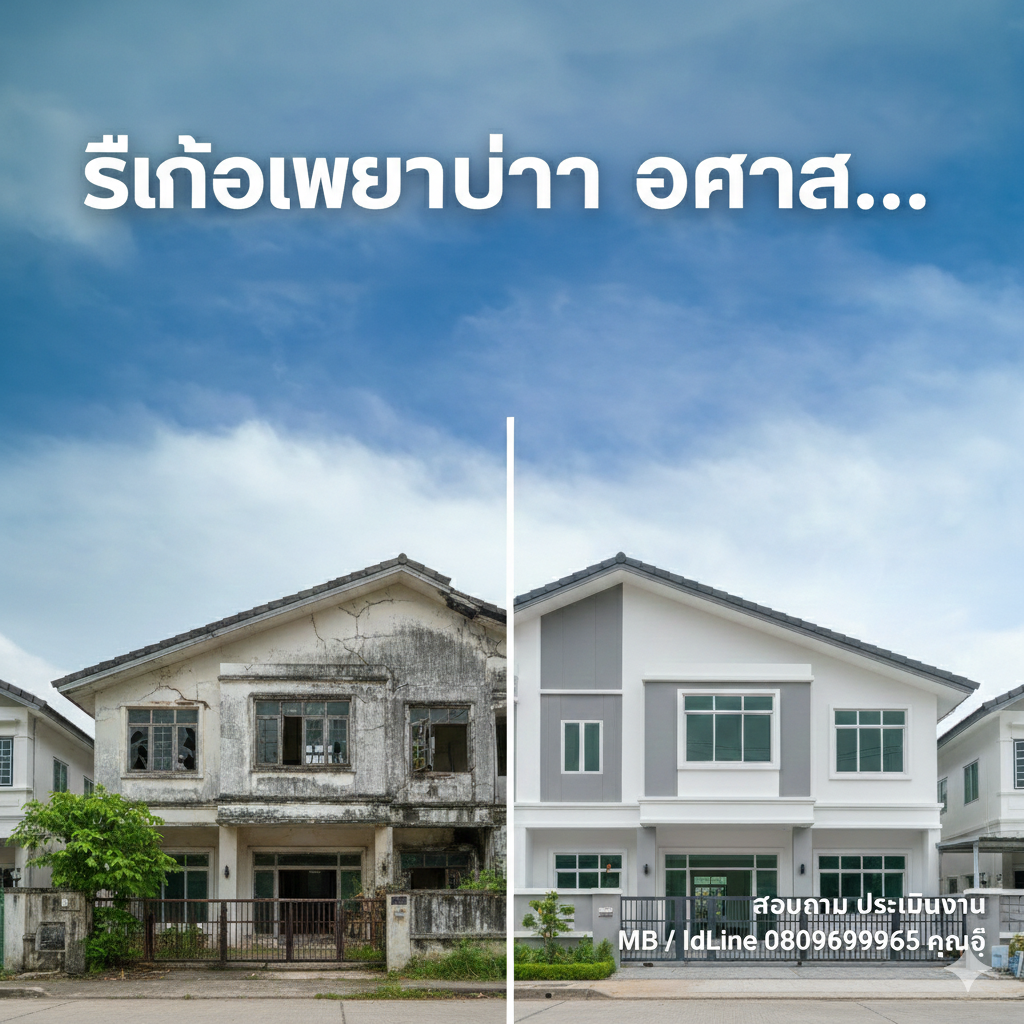
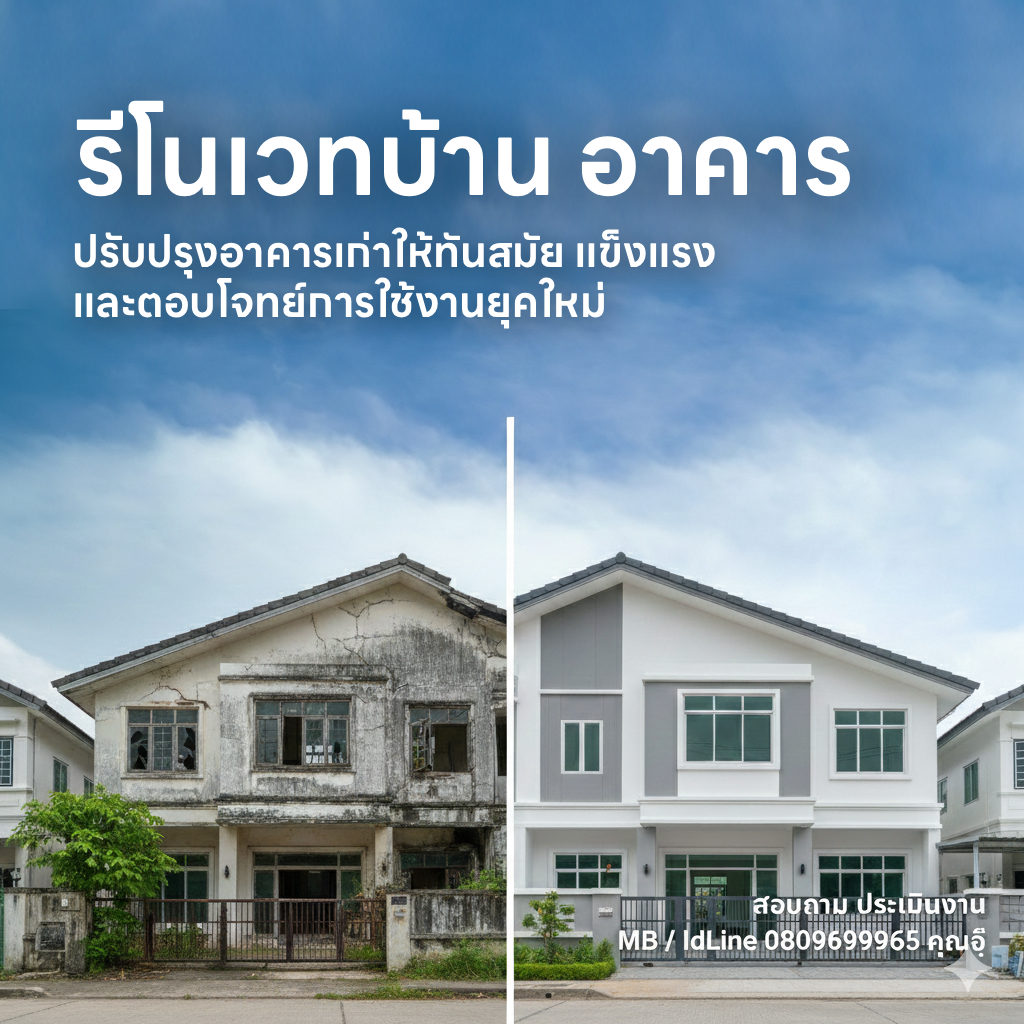
feat : update home page

Changed region(s): [[0.0, 0.0, 1.0, 0.3438]]

diff --git a/app/page.tsx b/app/page.tsx
@@ -1,21 +1,154 @@
 import ImageCarousel from "./components/ImageCarousel";
 import { HOME_IMAGES } from "./const/app";
+import { ArrowRight, ShieldCheck, Paintbrush, Home as HomeIcon } from "lucide-react";
 
-
-
+// ข้อมูลบริการสำหรับ Grid
+const services = [
+  {
+    title: "กันซึมดาดฟ้า หลังคา ผนัง",
+    description: "ติดตั้งระบบกันซึมมาตรฐานสากล ป้องกันน้ำรั่วซึมเข้าสู่โครงสร้างอาคารอย่างถาวร",
+    image: "/images/service1.jpg"
+  },
+  {
+    title: "ซ่อมแซมรอยรั่ว รอยแตกร้าว",
+    description: "วิเคราะห์และแก้ไขปัญหารอยร้าวด้วยวัสดุประสานประสิทธิภาพสูง ทนทานต่อแรงมัดตัว",
+    image: "/images/service2.jpg"
+  },
+  {
+    title: "งานติดตั้ง ซ่อมฝ้าเพดาน",
+    description: "บริการงานฝ้าครบวงจร แก้ไขปัญหาฝ้าบวมชื้นจากน้ำรั่ว พร้อมตกแต่งให้เรียบเนียน",
+    image: "/images/service3.jpg"
+  },
+  {
+    title: "งานพ่นสีหลังคา ซ่อมหลังคา",
+    description: "ฟื้นฟูหลังคาเก่าให้ใหม่ด้วยสีสะท้อนความร้อน พร้อมระบบกันซึมคุณภาพสูง",
+    image: "/images/service4.jpg"
+  },
+  {
+    title: "ซ่อมพื้นปูน กระเบื้อง ภายนอก",
+    description: "ซ่อมบำรุงพื้นผิวภายนอก ปูกระเบื้อง และแก้ไขปัญหาพื้นแตกร้าวจากการทรุดตัว",
+    image: "/images/service5.jpg"
+  },
+  {
+    title: "รีโนเวทบ้าน อาคาร",
+    description: "ปรับปรุงอาคารเก่าให้ทันสมัย แข็งแรง และตอบโจทย์การใช้งานยุคใหม่",
+    image: "/images/service6.jpg"
+  }
+];
 
 export default async function Home() {
-
-  
-
   return (
-    <div className="flex items-center flex-col bg-zinc-50 font-sans dark:bg-black">
-     <ImageCarousel slides={HOME_IMAGES} />
-     
-     {/* <img 
-     src="/waterproof.jpg" 
-     className="h-full w-full object-cover"
-     alt="waterproof banner" /> */}
+    <div className="flex flex-col bg-white dark:bg-zinc-950 min-h-screen">
+      {/* 1. Hero Section: Carousel */}
+      <ImageCarousel slides={HOME_IMAGES} />
+
+      {/* 2. Highlight Section: About PaintProof */}
+      <section className="py-20 border-b border-slate-50">
+        <div className="max-w-6xl mx-auto px-6 grid md:grid-cols-2 gap-12 items-center">
+          <div className="relative">
+            <img
+              src="/images/1.jpg"
+              alt="PaintProof Service"
+              className="w-full h-[400px] object-cover rounded-sm shadow-2xl"
+            />
+            <div className="absolute -bottom-6 -right-6 bg-blue-800 text-white p-8 hidden md:block rounded-sm">
+              <p className="text-4xl font-light">10+</p>
+              <p className="text-xs uppercase tracking-widest opacity-80">Years Experience</p>
+            </div>
+          </div>
+
+          <div className="space-y-6">
+            <h2 className="text-3xl md:text-4xl font-light text-slate-900 leading-tight">
+              ผู้เชี่ยวชาญด้าน <br />
+              <span className="font-semibold text-blue-800">ระบบกันซึมมาตรฐานวิศวกรรม</span>
+            </h2>
+            <p className="text-slate-500 leading-relaxed">
+              Waterproof Phuket มอบบริการทาสีกันซึมคุณภาพสูง (Paint Proof)
+              ที่ถูกออกแบบมาเพื่อสภาพอากาศร้อนชื้นในภูเก็ตโดยเฉพาะ
+              ช่วยปกป้องอาคารของคุณจากความชื้น การรั่วซึม และการกัดเซาะจากไอทะเล
+            </p>
+
+            <div className="grid grid-cols-1 gap-4 pt-4">
+              <div className="flex gap-4 items-start">
+                <div className="mt-1"><ShieldCheck className="text-blue-800 size-5" /></div>
+                <div>
+                  <h3 className="font-semibold text-slate-900">วัสดุเกรดพรีเมียม</h3>
+                  <p className="text-sm text-slate-500">ทน UV และสะท้อนความร้อน ช่วยลดอุณหภูมิในอาคาร</p>
+                </div>
+              </div>
+            </div>
+          </div>
+        </div>
+      </section>
+
+      {/* 3. Services Grid Section */}
+      <section className="py-24 bg-slate-50/50">
+        <div className="max-w-6xl mx-auto px-6">
+          <div className="mb-16 text-center">
+            <h2 className="text-sm font-bold uppercase tracking-[0.3em] text-blue-800 mb-3">Our Services</h2>
+            <p className="text-3xl md:text-4xl font-light text-slate-900">บริการของเรา</p>
+          </div>
+
+          <div className="grid grid-cols-2 md:grid-cols-2 lg:grid-cols-3 md:gap-8 gap-1">
+            {services.map((service, index) => (
+              <div key={index} className="group bg-white border border-slate-100  overflow-hidden hover:shadow-xl transition-all duration-500">
+                <div className="aspect-[1/1] overflow-hidden relative">
+                  <img
+                    src={service.image}
+                    alt={service.title}
+                    className="w-full h-full object-cover transition-transform duration-700"
+                  />
+                  <a href="/services" className="absolute bottom-4 left-4
+                   items-center text-xs font-medium uppercase tracking-widest
+                   bg-white rounded-full  w-fit inline-flex px-4 py-2
+                     group-hover:text-blue-800 transition-colors">
+                    ดูรายละเอียด <ArrowRight className="ml-2 size-3" />
+                  </a>
+                </div>
+                <div className="md:block hidden p-8">
+                  <h3 className="text-lg font-semibold text-slate-900 mb-3 group-hover:text-blue-800 transition-colors">
+                    {service.title}
+                  </h3>
+                  <p className="text-slate-500 text-sm leading-relaxed mb-6">
+                    {service.description}
+                  </p>
+                  <a href="/services" className="inline-flex items-center text-xs font-bold uppercase tracking-widest text-slate-400 group-hover:text-blue-800 transition-colors">
+                    ดูรายละเอียด <ArrowRight className="ml-2 size-3" />
+                  </a>
+                </div>
+              </div>
+            ))}
+          </div>
+        </div>
+      </section>
+
+      {/* 4. CTA Section */}
+      <section className="py-20 bg-slate-900 text-white relative overflow-hidden">
+        <div className="max-w-4xl mx-auto px-6 text-center relative z-10">
+          <h2 className="text-2xl md:text-4xl font-light mb-6">
+            พร้อมแก้ไขปัญหา <span className="font-semibold">น้ำรั่วซึม</span> แล้วหรือยัง?
+          </h2>
+          <p className="text-slate-400 mb-10 text-lg">
+            บริการประเมินหน้างานฟรีในพื้นที่ภูเก็ต โดยทีมช่างผู้เชี่ยวชาญที่มีประสบการณ์ยาวนาน
+          </p>
+          <div className="flex flex-wrap justify-center gap-4">
+            <a
+              href="/contact"
+              className="px-10 py-4 bg-blue-700 hover:bg-blue-600 text-white text-xs font-bold uppercase tracking-widest transition-all rounded-full"
+            >
+              ติดต่อสอบถามฟรี
+            </a>
+            <a
+              href="tel:0809699965"
+              className="px-10 py-4 border border-slate-700 hover:bg-white hover:text-slate-900 text-white text-xs font-bold uppercase tracking-widest transition-all rounded-full"
+            >
+              โทรเลย: 080-969-9965
+            </a>
+          </div>
+        </div>
+        {/* Background Decorative Element */}
+        <div className="absolute top-0 right-0 w-64 h-64 bg-blue-800/10 rounded-full -mr-32 -mt-32 blur-3xl"></div>
+      </section>
     </div>
   );
 }

diff --git a/app/components/navbar.tsx b/app/components/navbar.tsx
@@ -41,42 +41,40 @@ export default function Navbar() {
   ];
 
   return (
-    <header className="w-full sticky top-0 z-50 border-b border-blue-800/30 bg-gray-900 shadow-lg">
+    <header className="w-full sticky top-0 z-50 border-b bg-white border-blue-800/30  shadow-lg">
       {/* --- TOP BAR --- */}
-      <section className="container-x w-full  h-10 border-b border-slate-800 flex items-center">
-        <div className="container mx-auto px-4 flex justify-end items-center h-full">
-          <div className="flex items-center gap-6">
-            {contactLinks.map((contact, index) => (
-              <a
-                key={index}
-                href={contact.href}
-                className="flex items-center gap-2 text-slate-400 hover:text-blue-400 transition-colors text-[12px]"
-              >
-                {contact.icon}
-                <span className="hidden sm:inline">{contact.label}</span>
-              </a>
-            ))}
+      <div className="bg-zinc-100">
+        <section className="container-x w-full  h-10  border-slate-800 flex items-center">
+          <div className="container mx-auto px-4 flex justify-end items-center h-full">
+            <div className="flex items-center gap-6">
+              {contactLinks.map((contact, index) => (
+                <a
+                  key={index}
+                  href={contact.href}
+                  className="flex items-center gap-2  hover:text-blue-400 transition-colors text-[12px]"
+                >
+                  {contact.icon}
+                  <span className="hidden sm:inline">{contact.label}</span>
+                </a>
+              ))}
+            </div>
           </div>
-        </div>
-      </section>
+        </section>
+      </div>
 
       {/* --- MAIN NAVBAR --- */}
       <section className="container-x mx-auto px-4 h-20 flex items-center justify-between">
         {/* Logo */}
         <Link href="/" className="flex items-center gap-3 group">
-          <div className="w-12 h-12 rounded-lg bg-white overflow-hidden p-1 shrink-0">
-            <img
-              src="/logo.jpg"
-              className="w-full h-full object-contain"
-              alt="PaintProof Phuket"
-            />
-          </div>
-          <div className="flex flex-col leading-tight">
-            <span className="text-white font-bold text-xl ">PaintProof</span>
-            <span className="text-white  ">
+         <div className="w-[220px] h-auto  flex items-center justify-center ">
+                <img src="/logo.jpg" alt="PaintProof Logo" className="mix-blend-darken" />
+              </div>
+          {/* <div className="flex flex-col leading-tight">
+            <span className=" font-bold text-xl ">PaintProof</span>
+            <span className="  ">
               กันซึม ดาดฟ้า หลังคารั่ว ภูเก็ต
             </span>
-          </div>
+          </div> */}
         </Link>
 
         {/* Desktop Navigation */}
@@ -86,11 +84,11 @@ export default function Navbar() {
               <NavigationMenuItem key={item.label}>
                 {item.children ? (
                   <>
-                    <NavigationMenuTrigger className="bg-transparent text-white ">
+                    <NavigationMenuTrigger className="bg-transparent  ">
                       {item.label}
                     </NavigationMenuTrigger>
                     <NavigationMenuContent>
-                      <ul className="grid w-[240px] gap-1 p-2">
+                      <ul className="grid w-[240px] relative inset-0 left-0 gap-1 p-2">
                         {item.children.map((sub) => (
                           <li key={sub.href}>
                             <NavigationMenuLink 
@@ -117,7 +115,7 @@ export default function Navbar() {
                     href={item.href} 
                     className="group inline-flex h-10 w-max items-center justify-center 
                     rounded-md bg-transparent px-4 py-2 text-sm
-                     font-medium text-white transition-colors ">
+                     font-medium  transition-colors ">
                       {item.label}
                     </NavigationMenuLink>
                   </div>
@@ -130,7 +128,7 @@ export default function Navbar() {
         {/* Mobile Menu (Drawer) */}
         <Sheet open={open} onOpenChange={setOpen}>
           <SheetTrigger asChild className="md:hidden">
-            <Button variant="ghost" size="icon" className="text-white hover:bg-gray-800">
+            <Button variant="ghost" size="icon" className=" hover:bg-blue-600/10">
               <Menu className="h-6 w-6" />
             </Button>
           </SheetTrigger>
